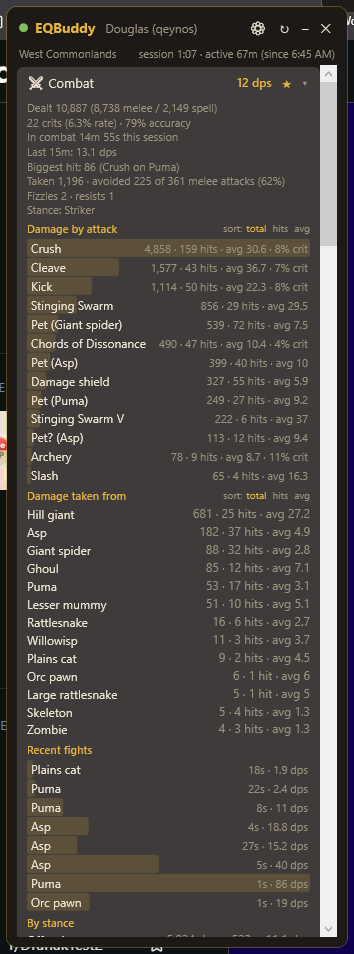
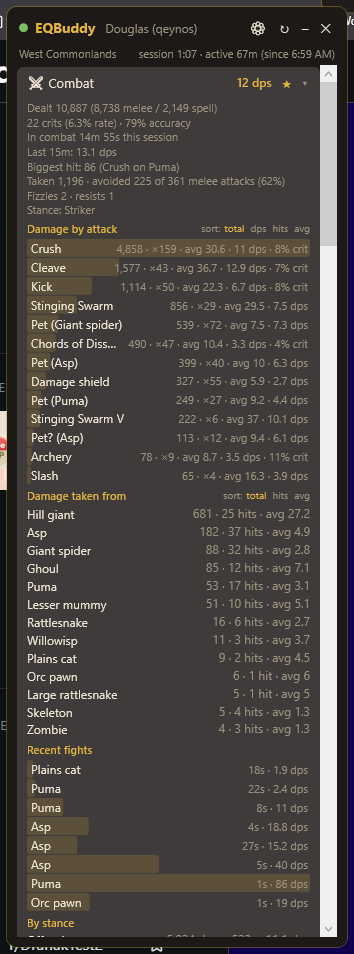
EQBuddy 1.8.7: true per-ability DPS/HPS; bars follow the sorted column
Per-ability rate is now computed from each ability's own active time
(AbilityAgg in Core): consecutive hits within 10s accumulate their
real spacing, isolated hits count ~2.5s. That's the closest the log
allows (no cast-time data) and it ranks burst casts meaningfully -
sorting the fixture by dps puts Stinging Swarm V third despite being
ninth by total.

- Breakdown rows now read "total - xhits - avg - dps (- crit%)" for
  damage and "total - xcasts - avg - hps" for heals.
- New dps/hps sort options; the share bar re-bases to whichever
  column is sorted (total/dps/hits/avg).
- Tooltip explains the rate: total / ~Ns the ability was in use.
- History overview appends per-ability dps/hps (guarded to sessions
  that stored active time - older rows just omit it).

3 new tests (112 total). Refreshed combat/healing screenshots.

diff --git a/src/EQBuddy/MainWindow.xaml b/src/EQBuddy/MainWindow.xaml
@@ -132,6 +132,9 @@
                             <TextBlock Text="sort:" FontSize="10" Foreground="{StaticResource DimBrush}" Margin="0,0,4,0"/>
                             <TextBlock x:Name="DmgOutSortTotal" Text="total" FontSize="10" Cursor="Hand" Tag="total"
                                        Foreground="{StaticResource AccentBrush}" MouseLeftButtonDown="OnSortDmgOut"/>
+                            <TextBlock x:Name="DmgOutSortDps" Text="dps" FontSize="10" Cursor="Hand" Tag="rate" Margin="6,0,0,0"
+                                       ToolTip="Per-ability DPS: damage ÷ the time that ability was in use"
+                                       Foreground="{StaticResource DimBrush}" MouseLeftButtonDown="OnSortDmgOut"/>
                             <TextBlock x:Name="DmgOutSortHits" Text="hits" FontSize="10" Cursor="Hand" Tag="hits" Margin="6,0,0,0"
                                        Foreground="{StaticResource DimBrush}" MouseLeftButtonDown="OnSortDmgOut"/>
                             <TextBlock x:Name="DmgOutSortAvg" Text="avg" FontSize="10" Cursor="Hand" Tag="avg" Margin="6,0,0,0"
@@ -184,6 +187,9 @@
                             <TextBlock Text="sort:" FontSize="10" Foreground="{StaticResource DimBrush}" Margin="0,0,4,0"/>
                             <TextBlock x:Name="HealSortTotal" Text="total" FontSize="10" Cursor="Hand" Tag="total"
                                        Foreground="{StaticResource AccentBrush}" MouseLeftButtonDown="OnSortHeal"/>
+                            <TextBlock x:Name="HealSortHps" Text="hps" FontSize="10" Cursor="Hand" Tag="rate" Margin="6,0,0,0"
+                                       ToolTip="Per-spell HPS: healing ÷ the time that spell was in use"
+                                       Foreground="{StaticResource DimBrush}" MouseLeftButtonDown="OnSortHeal"/>
                             <TextBlock x:Name="HealSortHits" Text="casts" FontSize="10" Cursor="Hand" Tag="hits" Margin="6,0,0,0"
                                        Foreground="{StaticResource DimBrush}" MouseLeftButtonDown="OnSortHeal"/>
                             <TextBlock x:Name="HealSortAvg" Text="avg" FontSize="10" Cursor="Hand" Tag="avg" Margin="6,0,0,0"

diff --git a/src/EQBuddy.Core/SessionStats.cs b/src/EQBuddy.Core/SessionStats.cs
@@ -28,10 +28,30 @@ public sealed class SessionStats
     private readonly Dictionary<string, int> _partyKillsByKiller = new(StringComparer.OrdinalIgnoreCase);
     private readonly List<(DateTime Time, string Killer)> _deaths = new();
 
+    /// <summary>Per-ability aggregate. ActiveSeconds approximates the time the ability
+    /// was in use: consecutive hits within AbilityGap accumulate their real spacing;
+    /// an isolated hit (or the first) counts IsolatedHitSeconds. Total ÷ ActiveSeconds
+    /// is the closest per-ability DPS/HPS the log allows (no cast-time data exists).</summary>
+    private sealed class AbilityAgg
+    {
+        public int Count; public long Total; public int Crits;
+        public double ActiveSeconds; public DateTime LastTime;
+
+        public void Add(DateTime t, long amount, bool crit = false)
+        {
+            var gap = (t - LastTime).TotalSeconds;
+            ActiveSeconds += Count == 0 || gap < 0 || gap > AbilityGapSeconds
+                ? IsolatedHitSeconds : gap;
+            LastTime = t; Count++; Total += amount; if (crit) Crits++;
+        }
+    }
+    private const double AbilityGapSeconds = 10;
+    private const double IsolatedHitSeconds = 2.5;
+
     private long _damageDealt, _meleeDamage, _spellDamage;
     private int _hitCount, _critCount, _missCount;
     private int _maxHit; private string _maxHitDesc = "";
-    private readonly Dictionary<string, (int Count, long Total, int Crits)> _damageBySource = new(StringComparer.OrdinalIgnoreCase);
+    private readonly Dictionary<string, AbilityAgg> _damageBySource = new(StringComparer.OrdinalIgnoreCase);
     private readonly Dictionary<string, int> _specialHits = new(StringComparer.OrdinalIgnoreCase);
 
     private long _damageTaken;
@@ -42,7 +62,7 @@ public sealed class SessionStats
     private long _healingDone; private int _healCount;
     private long _healingReceived;
     private readonly Dictionary<string, (int Count, long Total)> _healsByHealer = new(StringComparer.OrdinalIgnoreCase);
-    private readonly Dictionary<string, (int Count, long Total)> _healsBySpell = new(StringComparer.OrdinalIgnoreCase);
+    private readonly Dictionary<string, AbilityAgg> _healsBySpell = new(StringComparer.OrdinalIgnoreCase);
     private int _regenTicks;
     private string? _characterName;
 
@@ -228,9 +248,7 @@ public sealed class SessionStats
                             Bump(_specialHits, note);
                     }
                     if (dd.Amount > _maxHit) { _maxHit = dd.Amount; _maxHitDesc = $"{dd.Source} on {dd.Target}"; }
-                    var src = _damageBySource.TryGetValue(dd.Source, out var s) ? s : default;
-                    _damageBySource[dd.Source] =
-                        (src.Count + 1, src.Total + dd.Amount, src.Crits + (dd.Critical ? 1 : 0));
+                    Ability(_damageBySource, dd.Source).Add(dd.Time, dd.Amount, dd.Critical);
                     TrackCombat(dd.Time, dd.Amount);
                     TouchFight(dd.Target, dd.Time, dmgOut: dd.Amount);
                     if (_currentStance is { } st1)
@@ -259,8 +277,7 @@ public sealed class SessionStats
                     break;
                 case HealEvent { Outgoing: true } h:
                     _healingDone += h.Amount; _healCount++;
-                    var sp = _healsBySpell.TryGetValue(h.Spell, out var spv) ? spv : (0, 0L);
-                    _healsBySpell[h.Spell] = (spv.Item1 + 1, spv.Item2 + h.Amount);
+                    Ability(_healsBySpell, h.Spell).Add(h.Time, h.Amount);
                     // Self-heals appear as "You healed <own name>" — count as received too.
                     if (_characterName is { } me &&
                         string.Equals(h.Target, me, StringComparison.OrdinalIgnoreCase))
@@ -387,10 +404,12 @@ public sealed class SessionStats
         _petConfirmed = true;
         if (_damageBySource.Remove($"Pet? ({name})", out var provisional))
         {
-            var label = $"Pet ({name})";
-            var cur = _damageBySource.TryGetValue(label, out var c) ? c : default;
-            _damageBySource[label] = (cur.Count + provisional.Count,
-                cur.Total + provisional.Total, cur.Crits + provisional.Crits);
+            var cur = Ability(_damageBySource, $"Pet ({name})");
+            cur.Count += provisional.Count;
+            cur.Total += provisional.Total;
+            cur.Crits += provisional.Crits;
+            cur.ActiveSeconds += provisional.ActiveSeconds;
+            if (provisional.LastTime > cur.LastTime) cur.LastTime = provisional.LastTime;
         }
     }
 
@@ -403,14 +422,16 @@ public sealed class SessionStats
         var label = _petConfirmed ? $"Pet ({_petName})" : $"Pet? ({_petName})";
         if (amount > _maxHit) { _maxHit = amount; _maxHitDesc = $"{label} on {target}"; }
         // Pet crit annotations aren't in third-party log lines, so pet crits stay 0.
-        var src = _damageBySource.TryGetValue(label, out var s) ? s : default;
-        _damageBySource[label] = (src.Count + 1, src.Total + amount, src.Crits);
+        Ability(_damageBySource, label).Add(t, amount);
         TrackCombat(t, amount);
         TouchFight(target, t, dmgOut: amount);
     }
 
     private MobAgg Mob(string name) =>
         _mobs.TryGetValue(name, out var m) ? m : _mobs[name] = new MobAgg();
+
+    private static AbilityAgg Ability(Dictionary<string, AbilityAgg> d, string key) =>
+        d.TryGetValue(key, out var a) ? a : d[key] = new AbilityAgg();
 
     /// <summary>A kill claims the xp/coin logged just before its kill line (EQL order);
     /// anything older than the window is dropped as uncorrelatable.</summary>
@@ -687,7 +708,7 @@ public sealed class SessionStats
                 MaxHitDesc = _maxHitDesc,
                 DamageBySource = _damageBySource.OrderByDescending(kv => kv.Value.Total)
                     .Select(kv => new SourceDamage(kv.Key, kv.Value.Count, kv.Value.Total,
-                        kv.Value.Crits)).ToList(),
+                        kv.Value.Crits, kv.Value.ActiveSeconds)).ToList(),
                 SpecialHits = _specialHits.OrderByDescending(kv => kv.Value)
                     .Select(kv => new NameCount(kv.Key, kv.Value)).ToList(),
                 SessionDps = sessionDps,
@@ -703,7 +724,8 @@ public sealed class SessionStats
                 HealsByHealer = _healsByHealer.OrderByDescending(kv => kv.Value.Total)
                     .Select(kv => new SourceDamage(kv.Key, kv.Value.Count, kv.Value.Total)).ToList(),
                 HealsBySpell = _healsBySpell.OrderByDescending(kv => kv.Value.Total)
-                    .Select(kv => new SourceDamage(kv.Key, kv.Value.Count, kv.Value.Total)).ToList(),
+                    .Select(kv => new SourceDamage(kv.Key, kv.Value.Count, kv.Value.Total,
+                        0, kv.Value.ActiveSeconds)).ToList(),
                 Hps = combatSeconds > 0 ? _healingDone / combatSeconds : 0,
                 RegenTicks = _regenTicks,
                 LootTotal = _lootCount,
@@ -781,7 +803,10 @@ public record NameCount(string Name, int Count);
 public record RecentRates(TimeSpan Window, bool HasFullWindow, double XpPercent, double XpPerHour,
     int Kills, long Copper, double Dps, double Hps);
 public record TimedDetail(DateTime Time, string Text);
-public record SourceDamage(string Name, int Hits, long Total, int Crits = 0);
+/// <summary>ActiveSeconds &gt; 0 enables per-ability rate display (Total ÷ ActiveSeconds);
+/// it is 0 for lists that don't track it (damage taken, healers) and for
+/// sessions stored before it existed.</summary>
+public record SourceDamage(string Name, int Hits, long Total, int Crits = 0, double ActiveSeconds = 0);
 public record LootDetail(string Item, int Count, string LastSource);
 public record SkillDetail(string Skill, int Ups, int Value);
 public record SoldDetail(string Item, int Count, long Copper);

diff --git a/src/EQBuddy/MainWindow.xaml.cs b/src/EQBuddy/MainWindow.xaml.cs
@@ -26,7 +26,7 @@ public partial class MainWindow : Window
 
     private static readonly string[] MiniStatOrder = ["kills", "dps", "hps", "loot", "money", "xp", "deaths"];
 
-    private enum StatSort { Total, Hits, Avg }
+    private enum StatSort { Total, Hits, Avg, Rate }
     private StatSort _dmgOutSort = StatSort.Total;
     private StatSort _dmgInSort = StatSort.Total;
     private StatSort _healSort = StatSort.Total;
@@ -369,7 +369,7 @@ public partial class MainWindow : Window
                     : "") +
                 (s.Fizzles + s.Resists > 0 ? $"\nFizzles {s.Fizzles} · resists {s.Resists}" : "") +
                 (s.CurrentStance.Length > 0 ? $"\nStance: {s.CurrentStance}" : "");
-            FillBreakdown(DamageSourceList, s.DamageBySource, _dmgOutSort, s.CombatSeconds, "hit", "dps");
+            FillBreakdown(DamageSourceList, s.DamageBySource, _dmgOutSort, "dps");
             FillStatList(DamageTakenList, s.DamageByAttacker, _dmgInSort, "hit");
             RecentFightsLabel.Visibility = s.RecentEncounters.Count > 0 ? Visibility.Visible : Visibility.Collapsed;
             RecentFightsList.Items.Clear();
@@ -401,7 +401,7 @@ public partial class MainWindow : Window
             var showSpells = s.HealsBySpell.Count > 0 ? Visibility.Visible : Visibility.Collapsed;
             HealSpellsLabel.Visibility = showSpells;
             HealSortBar.Visibility = showSpells;
-            FillBreakdown(HealSpellList, s.HealsBySpell, _healSort, s.CombatSeconds, "cast", "hps");
+            FillBreakdown(HealSpellList, s.HealsBySpell, _healSort, "hps");
             HealersLabel.Visibility = s.HealsByHealer.Count > 0 ? Visibility.Visible : Visibility.Collapsed;
             FillList(HealerList, s.HealsByHealer.Select(h =>
                 (h.Name, $"{h.Total:N0} · {h.Hits} heal{(h.Hits == 1 ? "" : "s")}")));
@@ -879,32 +879,43 @@ public partial class MainWindow : Window
         });
     }
 
-    /// <summary>Details!-style breakdown: proportional share bar behind each row with the
-    /// full "total · hits · avg (· crit%)" columns inline; share % and per-second rate
-    /// in the tooltip. Used for damage-by-attack and heals-by-spell.</summary>
+    /// <summary>Details!-style breakdown: proportional bar behind each row with the full
+    /// "total · ×hits · avg · rate (· crit%)" columns inline. The rate (dps/hps) is the
+    /// closest per-ability figure the log allows: total ÷ the ability's own active time
+    /// (Core's AbilityAgg). The bar follows the sorted column.</summary>
     private void FillBreakdown(ItemsControl list, IEnumerable<SourceDamage> stats,
-        StatSort sort, double combatSeconds, string unit, string rateLabel)
+        StatSort sort, string rateLabel)
     {
+        static double Avg(SourceDamage d) => (double)d.Total / Math.Max(1, d.Hits);
+        static double Rate(SourceDamage d) => d.Total / Math.Max(1, d.ActiveSeconds);
         var sorted = (sort switch
         {
             StatSort.Hits => stats.OrderByDescending(d => d.Hits),
-            StatSort.Avg => stats.OrderByDescending(d => (double)d.Total / d.Hits),
+            StatSort.Avg => stats.OrderByDescending(Avg),
+            StatSort.Rate => stats.OrderByDescending(Rate),
             _ => stats.OrderByDescending(d => d.Total),
         }).ToList();
         list.Items.Clear();
         if (sorted.Count == 0) return;
         var grand = Math.Max(1, sorted.Sum(d => d.Total));
-        var top = Math.Max(1, sorted.Max(d => d.Total));
-        var secs = Math.Max(1, combatSeconds);
+        Func<SourceDamage, double> metric = sort switch
+        {
+            StatSort.Hits => d => d.Hits,
+            StatSort.Avg => Avg,
+            StatSort.Rate => Rate,
+            _ => d => d.Total,
+        };
+        var topMetric = Math.Max(1e-9, sorted.Max(metric));
         var barBrush = AccentBarBrush();
 
         foreach (var d in sorted)
         {
             var critPart = d.Crits > 0 ? $" · {100.0 * d.Crits / Math.Max(1, d.Hits):0}% crit" : "";
-            var value = $"{d.Total:N0} · {d.Hits} {unit}{(d.Hits == 1 ? "" : "s")}" +
-                        $" · avg {(double)d.Total / Math.Max(1, d.Hits):0.#}{critPart}";
-            var tooltip = $"{100.0 * d.Total / grand:0.#}% of total · {d.Total / secs:0.#} {rateLabel}";
-            list.Items.Add(BarRow(d.Name, value, (double)d.Total / top, barBrush, tooltip));
+            var ratePart = d.ActiveSeconds > 0 ? $" · {Rate(d):0.#} {rateLabel}" : "";
+            var value = $"{d.Total:N0} · ×{d.Hits} · avg {Avg(d):0.#}{ratePart}{critPart}";
+            var tooltip = $"{100.0 * d.Total / grand:0.#}% of total" +
+                (d.ActiveSeconds > 0 ? $" · {rateLabel} = total ÷ ~{d.ActiveSeconds:0}s this ability was in use" : "");
+            list.Items.Add(BarRow(d.Name, value, metric(d) / topMetric, barBrush, tooltip));
         }
     }
 
@@ -965,20 +976,24 @@ public partial class MainWindow : Window
     {
         "hits" => StatSort.Hits,
         "avg" => StatSort.Avg,
+        "rate" => StatSort.Rate,
         _ => StatSort.Total,
     };
 
-    private void SetSortVisual(StatSort mode, TextBlock total, TextBlock hits, TextBlock avg)
+    private void SetSortVisual(StatSort mode, TextBlock total, TextBlock hits, TextBlock avg,
+        TextBlock? rate = null)
     {
         total.Foreground = (Brush)FindResource(mode == StatSort.Total ? "AccentBrush" : "DimBrush");
         hits.Foreground = (Brush)FindResource(mode == StatSort.Hits ? "AccentBrush" : "DimBrush");
         avg.Foreground = (Brush)FindResource(mode == StatSort.Avg ? "AccentBrush" : "DimBrush");
+        if (rate is not null)
+            rate.Foreground = (Brush)FindResource(mode == StatSort.Rate ? "AccentBrush" : "DimBrush");
     }
 
     private void OnSortDmgOut(object sender, MouseButtonEventArgs e)
     {
         _dmgOutSort = ParseSort(sender);
-        SetSortVisual(_dmgOutSort, DmgOutSortTotal, DmgOutSortHits, DmgOutSortAvg);
+        SetSortVisual(_dmgOutSort, DmgOutSortTotal, DmgOutSortHits, DmgOutSortAvg, DmgOutSortDps);
         RefreshUi();
     }
 
@@ -992,7 +1007,7 @@ public partial class MainWindow : Window
     private void OnSortHeal(object sender, MouseButtonEventArgs e)
     {
         _healSort = ParseSort(sender);
-        SetSortVisual(_healSort, HealSortTotal, HealSortHits, HealSortAvg);
+        SetSortVisual(_healSort, HealSortTotal, HealSortHits, HealSortAvg, HealSortHps);
         RefreshUi();
     }
 

diff --git a/tests/EQBuddy.Tests/SessionStatsTests.cs b/tests/EQBuddy.Tests/SessionStatsTests.cs
@@ -158,6 +158,31 @@ public class SessionStatsTests
     }
 
     [Fact]
+    public void AbilityActiveTimeApproximatesPerAbilityRate()
+    {
+        // Consecutive hits within 10s accumulate real spacing; isolated hits count 2.5s.
+        var s = Replay("Kaybek",
+            At(0, 0, "You slash orc pawn for 10 points of damage."),
+            At(0, 3, "You slash orc pawn for 10 points of damage."),
+            At(0, 6, "You slash orc pawn for 10 points of damage."),
+            At(0, 10, "You kick orc pawn for 5 points of damage."),
+            At(0, 50, "You kick orc pawn for 5 points of damage.")).Snapshot();
+        // Slash: 2.5 (first) + 3 + 3 = 8.5s active.
+        Assert.Equal(8.5, s.DamageBySource.Single(d => d.Name == "Slash").ActiveSeconds, 3);
+        // Kick: two isolated hits = 2.5 + 2.5 = 5s active.
+        Assert.Equal(5.0, s.DamageBySource.Single(d => d.Name == "Kick").ActiveSeconds, 3);
+    }
+
+    [Fact]
+    public void HealsBySpellTrackActiveTime()
+    {
+        var s = Replay("Douglas",
+            At(0, 0, "You healed Zumm for 30 hit points by Light Healing."),
+            At(0, 4, "You healed Zumm for 30 hit points by Light Healing.")).Snapshot();
+        Assert.Equal(6.5, s.HealsBySpell.Single().ActiveSeconds, 3);   // 2.5 + 4
+    }
+
+    [Fact]
     public void DamageBySourceTracksPerSourceCrits()
     {
         var s = Replay("Kaybek",

diff --git a/src/EQBuddy/HistoryWindow.xaml.cs b/src/EQBuddy/HistoryWindow.xaml.cs
@@ -113,6 +113,7 @@ public partial class HistoryWindow : Window
             foreach (var d in s.DamageBySource.Take(8))
                 sb.AppendLine($"  {d.Name,-24} {ShareBar((double)d.Total / top),-10} {d.Total,8:N0}" +
                     $" · {100.0 * d.Total / grand,3:0}% · {d.Hits} hits · avg {(double)d.Total / d.Hits:0.#}" +
+                    (d.ActiveSeconds > 0 ? $" · {d.Total / d.ActiveSeconds:0.#} dps" : "") +
                     (d.Crits > 0 ? $" · {100.0 * d.Crits / Math.Max(1, d.Hits):0}% crit" : ""));
             sb.AppendLine();
         }
@@ -124,7 +125,8 @@ public partial class HistoryWindow : Window
             foreach (var h in s.HealsBySpell.Take(6))
                 sb.AppendLine($"  {h.Name,-24} {ShareBar((double)h.Total / hTop),-10} {h.Total,8:N0}" +
                     $" · {100.0 * h.Total / hGrand,3:0}% · {h.Hits} cast{(h.Hits == 1 ? "" : "s")}" +
-                    $" · avg {(double)h.Total / Math.Max(1, h.Hits):0.#}");
+                    $" · avg {(double)h.Total / Math.Max(1, h.Hits):0.#}" +
+                    (h.ActiveSeconds > 0 ? $" · {h.Total / h.ActiveSeconds:0.#} hps" : ""));
             sb.AppendLine();
         }
         if (s.YourKills.Count > 0)

diff --git a/docs/FeatureGuide.md b/docs/FeatureGuide.md
@@ -40,9 +40,13 @@ Header: session DPS (+ live fight DPS while fighting). Details:
 - Summary block: damage dealt (melee/spell split), crits + crit rate, accuracy,
   time-in-combat, recent-window DPS ("Last 15m"), biggest hit, damage taken +
   avoidance %, fizzles/resists, current stance.
-- **Damage by attack** — Details!-style breakdown: each source has a proportional
-  share bar (relative to the top source) with `total · hits · avg (· crit%)` inline;
-  `% of total · per-ability dps` in the row tooltip. Sort bar: total/hits/avg.
+- **Damage by attack** — Details!-style breakdown: each source shows
+  `total · ×hits · avg · dps (· crit%)`. The dps is per-ability: damage ÷ the time
+  that ability was in use (consecutive hits within 10 s accumulate their real
+  spacing; an isolated hit counts ~2.5 s) — the closest the log allows, since it has
+  no cast-time data. Sort bar: total/dps/hits/avg — the bar behind each row is
+  proportional to whichever column is sorted. Tooltip: share of total + the active
+  time behind the dps figure.
   Pet damage appears as "Pet (Name)" — provisional charm pets as "Pet? (Name)" until a
   "Master" tell confirms them. Pets show no crit % (the log doesn't annotate pet crits).
 - **Damage taken from** per attacker (total · hits · avg).
@@ -60,9 +64,10 @@ slain X!"` in the same second.
 
 ### Healing card
 HPS (healing ÷ combat time), healing done/received, heals cast per spell with the
-same share-bar breakdown as Combat (total · casts · avg per row; share % and per-spell
-hps in tooltips), who healed you, regen/hymn tick counts (no amounts — the log gives
-none).
+same breakdown as Combat: `total · ×casts · avg · hps` per row, sortable by
+total/hps/casts/avg with the bar following the sort; per-spell hps = healing ÷ that
+spell's active casting time. Who healed you, regen/hymn tick counts (no amounts —
+the log gives none).
 
 ### Kills card
 Header: your kills (+ group kills). Details: per-creature counts, kills/hour +

diff --git a/README.md b/README.md
@@ -144,8 +144,8 @@ Session DPS = your damage ÷ time actually **in combat**, so downtime never dilu
 
 | Section | Summary stat | Click-in details |
 |---|---|---|
-| Combat | Session DPS (+ live fight DPS) | Details!-style damage breakdown per attack/spell/song — share-of-total bars with total, hit count, average, and crit rate on every row (share % and per-ability DPS in tooltips; sortable by total/hits/avg); accuracy, melee avoidance %, biggest hit, time in combat, damage taken per mob, recent fights with DPS bars, fizzles/resists |
-| Healing | HPS (healing ÷ time in combat) | Healing done and received, heals cast per spell with the same share-bar breakdown as Combat (total/casts/average per row), who healed you, hymn/regen tick counts (the log gives no amounts for those) |
+| Combat | Session DPS (+ live fight DPS) | Details!-style damage breakdown per attack/spell/song — every row shows total, hits, average, **per-ability DPS** (damage ÷ the time that ability was in use), and crit rate; sortable by total/dps/hits/avg with the bar following the sorted column; accuracy, melee avoidance %, biggest hit, time in combat, damage taken per mob, recent fights with DPS bars, fizzles/resists |
+| Healing | HPS (healing ÷ time in combat) | Healing done and received, heals cast per spell with the same breakdown as Combat (total, casts, average, **per-spell HPS**; sortable by total/hps/casts/avg with matching bars), who healed you, hymn/regen tick counts (the log gives no amounts for those) |
 | Kills | Your kills incl. pet (+ group kills) | Count per creature type, kills/hour, group-member kill counts; per-creature farming: avg fight length, coin, XP, and observed drops with your personal rate (e.g. `×2 · 22%`) |
 | Loot | Items looted (+ items made) | Every item with counts, items created by merging |
 | Money | Coin earned (p/g/s/c) | Corpse coin vs merchant-sale income, items sold with prices, biggest drop, money per hour |